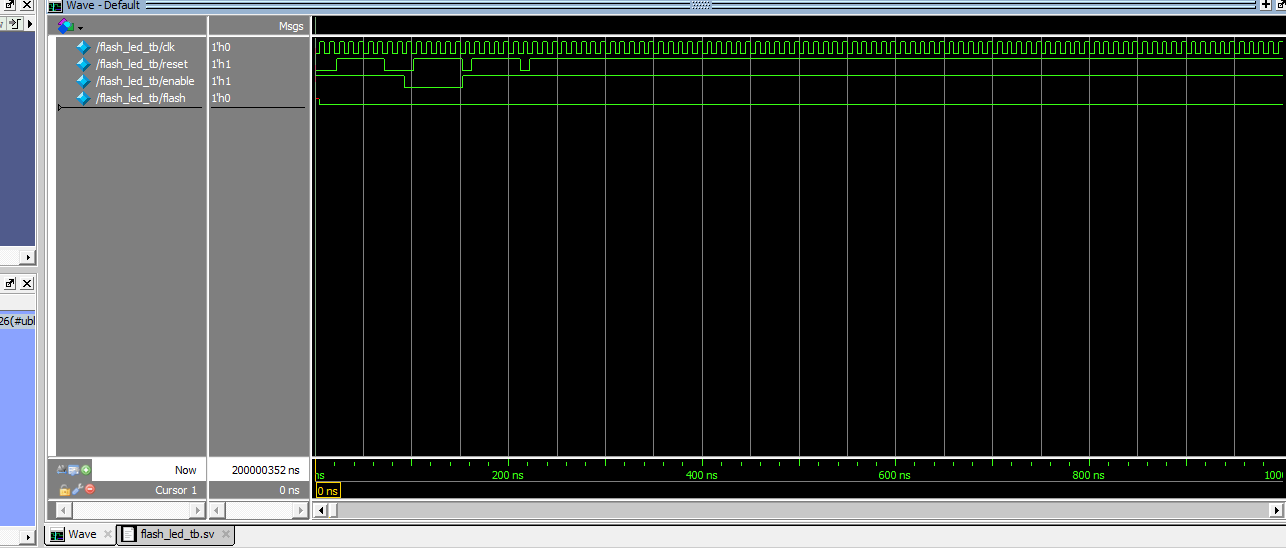
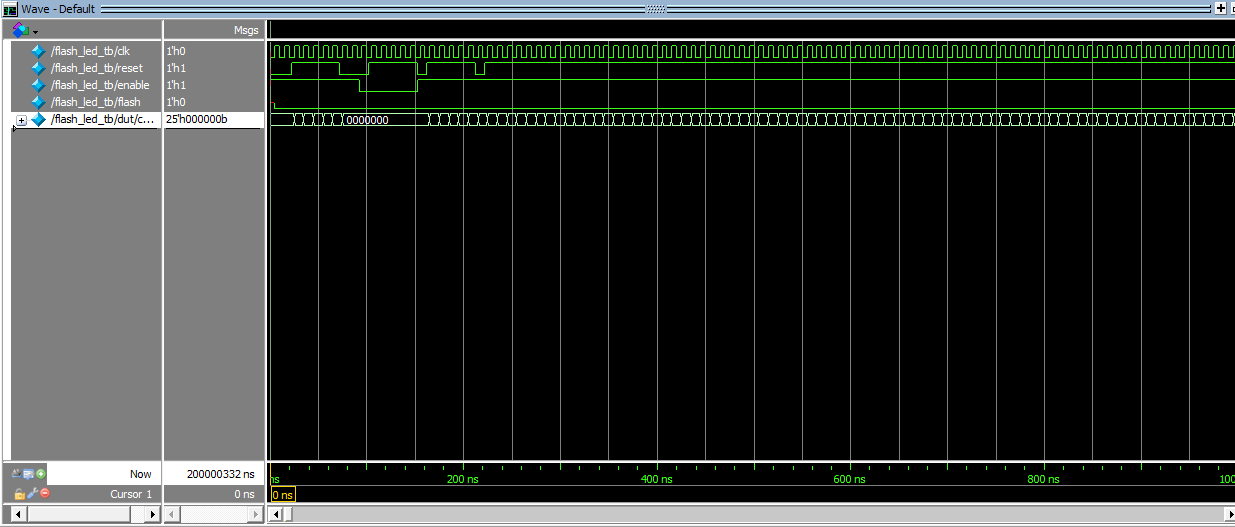
Built site for gh-pages

Changed region(s): [[0.0, 0.0, 1.0, 1.0]]

diff --git a/labs/lab1/lab1.html b/labs/lab1/lab1.html
@@ -329,13 +329,13 @@ Figure&nbsp;3: Waveform simulation of counter module with all tests passing
 </figcaption>
 </figure>
 </div>
-<div id="fig-sim_counter_max" class="quarto-float quarto-figure quarto-figure-center anchored">
+<div id="fig-sim_counter_reset" class="quarto-float quarto-figure quarto-figure-center anchored">
 <figure class="quarto-float quarto-float-fig figure">
-<div aria-describedby="fig-sim_counter_max-caption-0ceaefa1-69ba-4598-a22c-09a6ac19f8ca">
+<div aria-describedby="fig-sim_counter_reset-caption-0ceaefa1-69ba-4598-a22c-09a6ac19f8ca">
 <img src="images/counter1.png" class="img-fluid figure-img">
 </div>
-<figcaption class="quarto-float-caption-bottom quarto-float-caption quarto-float-fig" id="fig-sim_counter_max-caption-0ceaefa1-69ba-4598-a22c-09a6ac19f8ca">
-Figure&nbsp;4: Waveform simulation of counter module at maximum counter behavior
+<figcaption class="quarto-float-caption-bottom quarto-float-caption quarto-float-fig" id="fig-sim_counter_reset-caption-0ceaefa1-69ba-4598-a22c-09a6ac19f8ca">
+Figure&nbsp;4: Waveform simulation of counter module at reset behavior
 </figcaption>
 </figure>
 </div>
@@ -352,9 +352,62 @@ Figure&nbsp;5: Waveform simulation including counter at maximum counter behavior
 </div>
 </div>
 </div>
-<p>The waveform simulation and test results of the flash LED module (flash_led) is shown in <a href="#fig-sim_counter_tests" class="quarto-xref">Figure&nbsp;3</a>, <a href="#fig-sim_counter" class="quarto-xref">Figure&nbsp;5</a> and <a href="#fig-sim_counter_max" class="quarto-xref">Figure&nbsp;4</a>. This testbench cover the reset behavior, enable behavior, and the behavior at counter maximum threshold. The DUT exhibit expected behavior for all test cases.</p>
 <div class="callout callout-style-default callout-note callout-titled">
 <div class="callout-header d-flex align-content-center collapsed" data-bs-toggle="collapse" data-bs-target=".callout-4-contents" aria-controls="callout-4" aria-expanded="false" aria-label="Toggle callout">
+<div class="callout-icon-container">
+<i class="callout-icon"></i>
+</div>
+<div class="callout-title-container flex-fill">
+<span class="screen-reader-only">Note</span>Some tests from testbench code
+</div>
+<div class="callout-btn-toggle d-inline-block border-0 py-1 ps-1 pe-0 float-end"><i class="callout-toggle"></i></div>
+</div>
+<div id="callout-4" class="callout-4-contents callout-collapse collapse">
+<div class="callout-body-container callout-body">
+<pre><code>   // testing enable behavior (on)
+        enable = 1'b1;
+        reset = 1'b0;
+        #10;
+        reset = 1'b1;
+        #50;
+        assert (dut.counter == 24'b101)
+            $display("PASSED! Counter did not increment at time: %0t.", $time);
+        else 
+            $error("FAILED! Counter behaves incorrectly at time: %0t.", $time); 
+        
+        assert (flash == 'b0)
+            $display("PASSED! LED is off as expected: %0t.", $time);
+        else 
+            $error("FAILED! LED behaves incorrectly at time: %0t.", $time); 
+
+    // testing max counter behavior (LED on)
+        reset = 1'b0;
+        #10;
+        reset = 1'b1;
+        #100000000; // counter reach MAX_threshold
+        assert (dut.counter == 24'b0)
+            $display("PASSED! Counter got back to zero as expected: %0t.", $time);
+        else
+            $display("FAILED! Counter has %0d at time: %0t.", dut.counter, $time);
+        
+        assert (flash == 1'b1)
+            $display("PASSED! LED turned on as expected: %0t.", $time);
+        else
+            $display("FAILED! LED has incorrect behavior at time: %0t.", $time);
+    
+    // then wait another max LED should turn off
+        #100000000;
+        #10;
+        assert (flash == 1'b0)
+            $display("PASSED! LED turned off as expected at counter %0d: %0t.", dut.counter, $time);
+        else
+            $display("FAILED! LED has incorrect behavior at time: %0t.", $time);</code></pre>
+</div>
+</div>
+</div>
+<p>The waveform simulation and test results of the flash LED module (flash_led) is shown in <a href="#fig-sim_counter_tests" class="quarto-xref">Figure&nbsp;3</a>, <a href="#fig-sim_counter" class="quarto-xref">Figure&nbsp;5</a> and <a href="#fig-sim_counter_reset" class="quarto-xref">Figure&nbsp;4</a>. This testbench cover the reset behavior, enable behavior, and the behavior at counter maximum threshold. The DUT exhibit expected behavior for all test cases.</p>
+<div class="callout callout-style-default callout-note callout-titled">
+<div class="callout-header d-flex align-content-center collapsed" data-bs-toggle="collapse" data-bs-target=".callout-5-contents" aria-controls="callout-5" aria-expanded="false" aria-label="Toggle callout">
 <div class="callout-icon-container">
 <i class="callout-icon"></i>
 </div>
@@ -363,7 +416,7 @@ Figure&nbsp;5: Waveform simulation including counter at maximum counter behavior
 </div>
 <div class="callout-btn-toggle d-inline-block border-0 py-1 ps-1 pe-0 float-end"><i class="callout-toggle"></i></div>
 </div>
-<div id="callout-4" class="callout-4-contents callout-collapse collapse">
+<div id="callout-5" class="callout-5-contents callout-collapse collapse">
 <div class="callout-body-container callout-body">
 <div id="fig-seven" class="quarto-float quarto-figure quarto-figure-center anchored">
 <figure class="quarto-float quarto-float-fig figure">
@@ -380,7 +433,7 @@ Figure&nbsp;6: Waveform simulation of the seven-segment display
 </div>
 <p>The waveform simulation and the test results of the seven segment display module (seven_seg) is shown in <a href="#fig-seven" class="quarto-xref">Figure&nbsp;6</a>. As shown, the testbench covers all 16 possible input combinations and their expected outputs and the DUT passes all test cases.</p>
 <div class="callout callout-style-default callout-note callout-titled">
-<div class="callout-header d-flex align-content-center collapsed" data-bs-toggle="collapse" data-bs-target=".callout-5-contents" aria-controls="callout-5" aria-expanded="false" aria-label="Toggle callout">
+<div class="callout-header d-flex align-content-center collapsed" data-bs-toggle="collapse" data-bs-target=".callout-6-contents" aria-controls="callout-6" aria-expanded="false" aria-label="Toggle callout">
 <div class="callout-icon-container">
 <i class="callout-icon"></i>
 </div>
@@ -389,7 +442,7 @@ Figure&nbsp;6: Waveform simulation of the seven-segment display
 </div>
 <div class="callout-btn-toggle d-inline-block border-0 py-1 ps-1 pe-0 float-end"><i class="callout-toggle"></i></div>
 </div>
-<div id="callout-5" class="callout-5-contents callout-collapse collapse">
+<div id="callout-6" class="callout-6-contents callout-collapse collapse">
 <div class="callout-body-container callout-body">
 <div id="fig-top_all" class="quarto-float quarto-figure quarto-figure-center anchored">
 <figure class="quarto-float quarto-float-fig figure">
@@ -416,7 +469,7 @@ Figure&nbsp;8: Zoomed-out top level showing LED flashing
 </div>
 <p>The top level testbench is shown in <a href="#fig-top_all" class="quarto-xref">Figure&nbsp;7</a> and <a href="#fig-top" class="quarto-xref">Figure&nbsp;8</a>. This testbench tests all cases of the switch to LED logic and the DUT does pass all test cases. This testbench also verifies that the connections to submodules are working properly as the flashing LED does exhibit expected behavior.</p>
 <div class="callout callout-style-default callout-note callout-titled">
-<div class="callout-header d-flex align-content-center collapsed" data-bs-toggle="collapse" data-bs-target=".callout-6-contents" aria-controls="callout-6" aria-expanded="false" aria-label="Toggle callout">
+<div class="callout-header d-flex align-content-center collapsed" data-bs-toggle="collapse" data-bs-target=".callout-7-contents" aria-controls="callout-7" aria-expanded="false" aria-label="Toggle callout">
 <div class="callout-icon-container">
 <i class="callout-icon"></i>
 </div>
@@ -425,7 +478,7 @@ Figure&nbsp;8: Zoomed-out top level showing LED flashing
 </div>
 <div class="callout-btn-toggle d-inline-block border-0 py-1 ps-1 pe-0 float-end"><i class="callout-toggle"></i></div>
 </div>
-<div id="callout-6" class="callout-6-contents callout-collapse collapse">
+<div id="callout-7" class="callout-7-contents callout-collapse collapse">
 <div class="callout-body-container callout-body">
 <div id="fig-time1" class="quarto-float quarto-figure quarto-figure-center anchored">
 <figure class="quarto-float quarto-float-fig figure">
@@ -461,7 +514,7 @@ Figure&nbsp;10
 <section id="ai-prototype-summary" class="level2">
 <h2 class="anchored" data-anchor-id="ai-prototype-summary">AI Prototype summary</h2>
 <div class="callout callout-style-default callout-note callout-titled">
-<div class="callout-header d-flex align-content-center collapsed" data-bs-toggle="collapse" data-bs-target=".callout-7-contents" aria-controls="callout-7" aria-expanded="false" aria-label="Toggle callout">
+<div class="callout-header d-flex align-content-center collapsed" data-bs-toggle="collapse" data-bs-target=".callout-8-contents" aria-controls="callout-8" aria-expanded="false" aria-label="Toggle callout">
 <div class="callout-icon-container">
 <i class="callout-icon"></i>
 </div>
@@ -470,7 +523,7 @@ Figure&nbsp;10
 </div>
 <div class="callout-btn-toggle d-inline-block border-0 py-1 ps-1 pe-0 float-end"><i class="callout-toggle"></i></div>
 </div>
-<div id="callout-7" class="callout-7-contents callout-collapse collapse">
+<div id="callout-8" class="callout-8-contents callout-collapse collapse">
 <div class="callout-body-container callout-body">
 <pre><code>// Top module name must match your project configuration: led_blink
 module led_blink (

diff --git a/lab.html b/lab.html
@@ -247,7 +247,7 @@ window.Quarto = {
 
 <div class="quarto-listing quarto-listing-container-default" id="listing-listing">
 <div class="list quarto-listing-default">
-<div class="quarto-post image-right" data-index="0" data-categories="cmVmbGVjdGlvbiUyQ2xhYnJlcG9ydA==" data-listing-date-sort="1788246000000" data-listing-file-modified-sort="1788992932190" data-listing-date-modified-sort="NaN" data-listing-reading-time-sort="6" data-listing-word-count-sort="1081">
+<div class="quarto-post image-right" data-index="0" data-categories="cmVmbGVjdGlvbiUyQ2xhYnJlcG9ydA==" data-listing-date-sort="1788246000000" data-listing-file-modified-sort="1788994360396" data-listing-date-modified-sort="NaN" data-listing-reading-time-sort="8" data-listing-word-count-sort="1513">
 <div class="thumbnail"><a href="./labs/lab1/lab1.html" class="no-external">
 
 <p class="card-img-top"><img loading='lazy' src="labs\lab1\images\block_dia.png"  class="thumbnail-image card-img"/></p>
